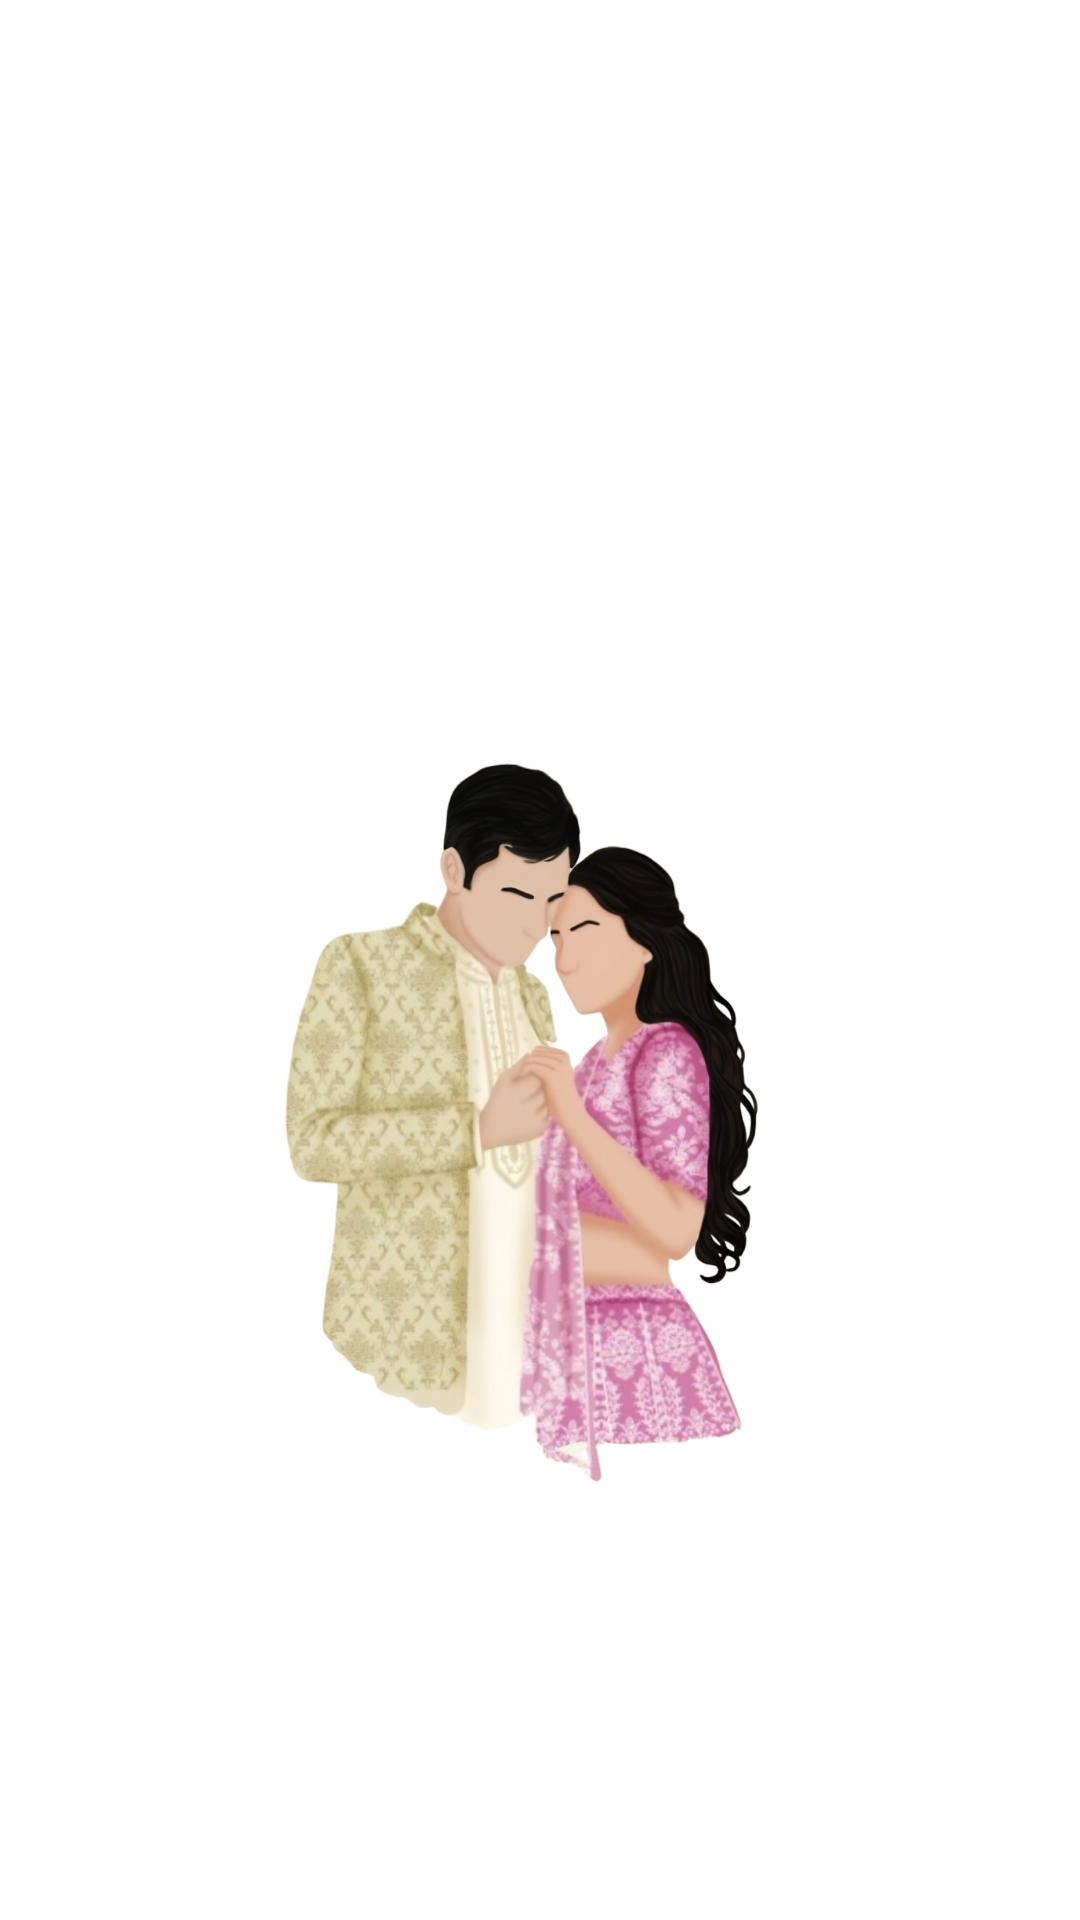
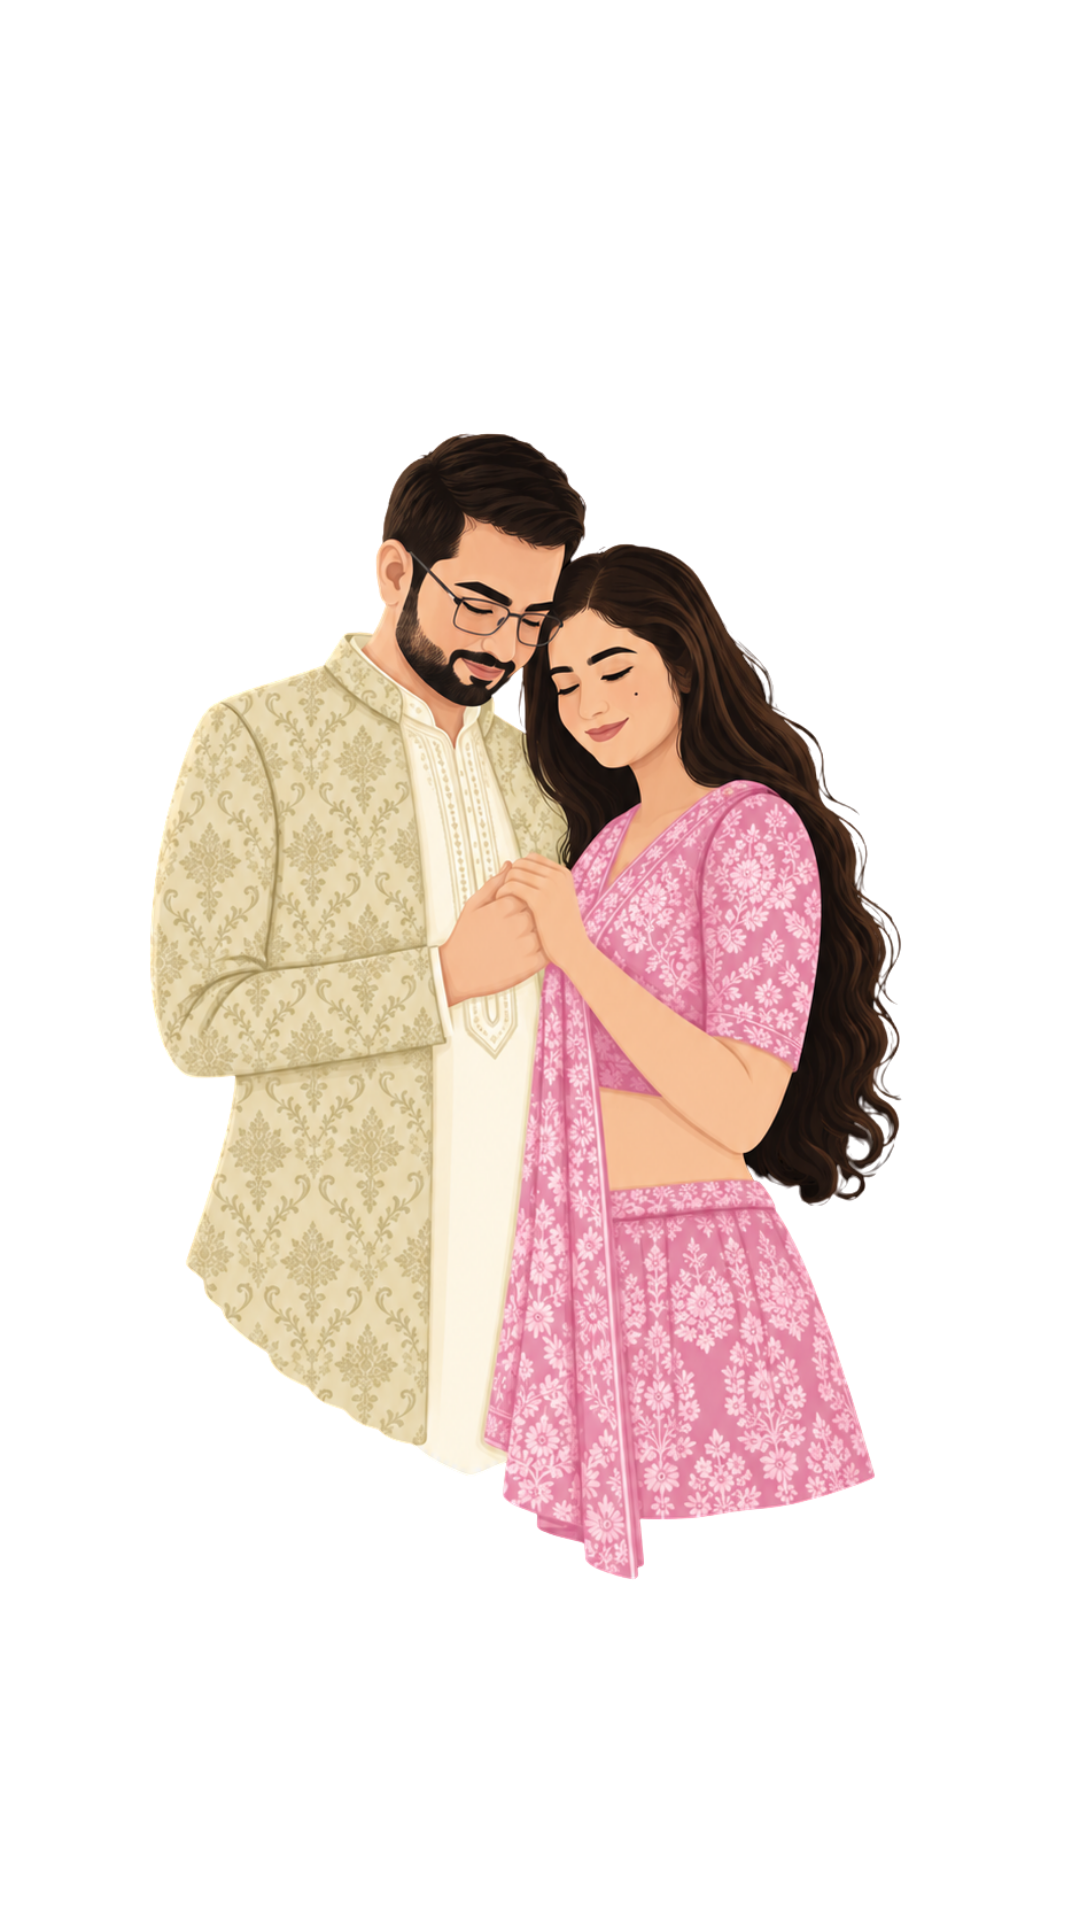
Add files via upload

Changed region(s): [[0.1222, 0.2188, 0.8556, 0.8438]]

diff --git a/index.html b/index.html
@@ -9,7 +9,7 @@
 *{box-sizing:border-box}
 html,body{margin:0;padding:0;background:#0b0710;color:#fff;font-family:Georgia,"Times New Roman",serif}
 body{overflow-x:hidden}
-#opening{position:fixed;inset:0;z-index:100;background:#0b0710;display:flex;align-items:center;justify-content:center;cursor:default;touch-action:manipulation;transition:opacity .65s ease,visibility .65s ease}
+#opening{position:fixed;inset:0;z-index:210;background:#0b0710;display:flex;align-items:center;justify-content:center;cursor:pointer;touch-action:manipulation;transition:opacity .65s ease,visibility .65s ease}
 #opening.hidden{opacity:0;visibility:hidden;pointer-events:none}
 #opening video{width:100%;height:100%;object-fit:cover;display:block;pointer-events:none}
 #opening .seal-logo{position:absolute;left:50%;top:49.3%;width:min(25vw,300px);height:auto;transform:translate(-50%,-50%) scale(.72);opacity:0;z-index:2;pointer-events:none;filter:drop-shadow(0 2px 3px rgba(72,45,12,.3));animation:sealLogoReveal 1.05s cubic-bezier(.2,.75,.25,1) .22s forwards}
@@ -23,12 +23,12 @@ section{position:relative;width:100%;height:100svh;min-height:620px;display:flex
 .video-wrap{position:relative;width:100%;height:100%;display:flex;justify-content:center;background:#0b0710}
 .invite-video{width:100%;height:100%;object-fit:cover;display:block;background:#0b0710}
 .sound{position:absolute;right:18px;bottom:20px;z-index:5;width:40px;height:40px;border-radius:50%;border:1px solid rgba(255,255,255,.55);background:rgba(0,0,0,.28);color:#fff;backdrop-filter:blur(5px);cursor:pointer;font-size:16px}
-#scratch-section{height:auto;min-height:100svh;padding:44px 18px 54px;display:flex;align-items:center;justify-content:flex-start;background:#f8f5e9;color:#3e3a35;scroll-snap-align:start}
-.scratch-wrap{width:min(100%,760px);text-align:center}
-.scratch-heading{margin:0 0 25px;color:#b49342;font-size:clamp(28px,5.8vw,52px);font-weight:400}
-.scratch-names{margin:0 0 30px;color:#b49342;font-size:clamp(50px,10vw,92px);line-height:.95;font-family:"Snell Roundhand","Segoe Script","Brush Script MT",cursive;font-weight:500}
+#scratch-section{height:auto;min-height:100svh;padding:34px 18px 44px;display:flex;align-items:center;justify-content:flex-start;background:#f8f5e9;color:#3e3a35;scroll-snap-align:start}
+.scratch-wrap{width:min(100%,760px);text-align:center;margin:0 auto}
+.scratch-heading{margin:0 0 18px;color:#b49342;font-size:clamp(28px,5.8vw,52px);font-weight:400}
+.scratch-names{margin:0 0 24px;color:#b49342;font-size:clamp(50px,10vw,92px);line-height:.95;font-family:"Snell Roundhand","Segoe Script","Brush Script MT",cursive;font-weight:500}
 .scratch-card{
-  position:relative;width:100%;height:178px;border-radius:27px;overflow:hidden;
+  position:relative;width:min(100%,700px);height:170px;margin:0 auto;border-radius:27px;overflow:hidden;
   background:
     radial-gradient(circle at 20% 25%,rgba(255,239,154,.34),transparent 22%),
     radial-gradient(circle at 78% 70%,rgba(255,246,190,.22),transparent 25%),
@@ -41,8 +41,10 @@ section{position:relative;width:100%;height:100svh;min-height:620px;display:flex
 .scratch-reveal{position:absolute;inset:0;z-index:0;display:flex;flex-direction:column;align-items:center;justify-content:center;background:linear-gradient(105deg,#fff2bf,#f7d97d,#fff0b6);color:#8c5e0a}
 .reveal-small{font:15px Georgia,serif;letter-spacing:5px;margin-bottom:10px}
 .reveal-date{font-size:clamp(30px,6vw,52px);font-weight:500}
-.scratch-date{margin:27px 0 18px;color:#4c4850;font-family:Georgia,"Times New Roman",serif;font-size:clamp(25px,5vw,44px)}
-.caricature{display:block;width:min(92vw,560px);height:auto;margin:0 auto 8px;mix-blend-mode:multiply;filter:saturate(.98);object-fit:contain}
+.scratch-date{margin:20px 0 16px;color:#4c4850;font-family:Georgia,"Times New Roman",serif;font-size:clamp(25px,5vw,44px)}
+.scratch-visuals{display:flex;flex-direction:column;align-items:center;justify-content:flex-start;gap:10px;margin:18px auto 20px;width:100%;}
+.invite-logo{display:block;width:min(30vw,150px);min-width:105px;height:auto;margin:0 auto;object-fit:contain;filter:drop-shadow(0 5px 10px rgba(90,62,25,.12));}
+.caricature{display:block;width:min(76vw,360px);height:auto;max-height:430px;margin:0 auto;mix-blend-mode:multiply;filter:saturate(.98);object-fit:contain}
 .countdown{display:grid;grid-template-columns:repeat(4,1fr);gap:12px;width:100%;max-width:710px;margin:0 auto}
 .time-box{min-height:145px;border:5px solid #e7b51a;border-radius:27px;background:#fff;display:flex;flex-direction:column;justify-content:center;align-items:center;box-shadow:0 8px 16px rgba(90,70,20,.1)}
 .time-number{color:#cf4382;font-size:clamp(42px,8vw,74px);line-height:1}
@@ -52,7 +54,7 @@ section{position:relative;width:100%;height:100svh;min-height:620px;display:flex
 .map-frame{width:100%;max-width:900px;height:58vh;min-height:360px;border:0;border-radius:18px;display:block;box-shadow:0 18px 50px rgba(0,0,0,.45)}
 .directions{display:inline-flex;align-items:center;justify-content:center;padding:13px 20px;border-radius:999px;text-decoration:none;color:#fff;border:1px solid rgba(255,255,255,.45);font:13px Arial,sans-serif;letter-spacing:.5px;max-width:330px;width:100%;margin:0 auto}
 @media(min-width:700px){.invite-video{width:min(100%,540px)}}
-@media(max-width:520px){.scratch-card{height:145px}.countdown{gap:7px}.time-box{min-height:112px;border-width:4px;border-radius:20px}.time-label{margin-top:8px}}
+@media(max-width:520px){#scratch-section{padding:28px 14px 38px}.scratch-card{height:142px}.scratch-visuals{gap:6px;margin:14px auto 18px}.invite-logo{width:110px;min-width:0}.caricature{width:min(82vw,300px);max-height:360px}.countdown{gap:7px}.time-box{min-height:112px;border-width:4px;border-radius:20px}.time-label{margin-top:8px}}
 </style>
 </head>
 <body>
@@ -62,12 +64,11 @@ section{position:relative;width:100%;height:100svh;min-height:620px;display:flex
   <source src="bol-na-halke-instrumental.mp4" type="audio/mp4">
 </audio>
 
-<!-- Opening slide automatically advances to the final front slide -->
-<div id="opening" aria-label="Open wedding invitation" role="button" tabindex="0">
-  <video id="openingVideo" playsinline preload="auto" autoplay muted poster="opening-poster.jpg">
+<!-- Opening video. The instruction is part of the video itself. When it finishes, the invitation is revealed. -->
+<div id="opening" aria-label="Opening wedding invitation" role="button" tabindex="0">
+  <video id="openingVideo" playsinline preload="auto" poster="opening-poster.jpg">
     <source src="opening-envelope.mp4" type="video/mp4">
   </video>
-  
 </div>
 
 <button id="musicButton" aria-label="Toggle wedding music">🔊</button>
@@ -98,7 +99,10 @@ section{position:relative;width:100%;height:100svh;min-height:620px;display:flex
         <div class="scratch-message">Scratch to reveal</div>
         <canvas id="scratchCanvas"></canvas>
       </div>
-<img class="caricature" src="caricature.png" alt="Jay and Simran illustration">
+<div class="scratch-visuals" aria-label="Jay and Simran monogram and illustration">
+        <img class="invite-logo" src="js-logo.png" alt="J and S monogram">
+        <img class="caricature" src="caricature.png" alt="Jay and Simran illustration">
+      </div>
 
       <div class="countdown">
         <div class="time-box"><div class="time-number" id="days">00</div><div class="time-label">Days</div></div>
@@ -160,7 +164,7 @@ const openingVideo=document.getElementById('openingVideo');
 const frontVideo=document.getElementById('frontVideo');
 const music=document.getElementById('weddingMusic');
 const musicButton=document.getElementById('musicButton');
-let opened=false;
+let opened=false, openingStarted=false;
 
 function showFront(){
   if(opened)return;
@@ -169,26 +173,34 @@ function showFront(){
   musicButton.classList.add('show');
   document.getElementById('front').scrollIntoView({behavior:'auto',block:'start'});
   frontVideo.play().catch(()=>{});
-  // Try the requested instrumental; browsers may require a later user gesture for audio.
   music.volume=.75;
   music.play().catch(()=>{});
 }
 
 function startOpening(){
-  openingVideo.muted=true;
-  openingVideo.setAttribute('playsinline','');
-  openingVideo.setAttribute('autoplay','');
+  if(openingStarted || opened)return;
+  openingStarted=true;
+  openingVideo.muted=false;
+  openingVideo.volume=.95;
   openingVideo.currentTime=0;
   const p=openingVideo.play();
-  if(p && p.catch) p.catch(()=>{});
-  openingVideo.addEventListener('ended',showFront,{once:true});
-  openingVideo.addEventListener('error',()=>setTimeout(showFront,250),{once:true});
-  frontVideo.addEventListener('error',()=>{document.getElementById('front').style.backgroundImage='url(\"front-poster.jpg\")';},{once:true});
-  // Safety fallback so the invitation never gets stuck on the opening slide.
-  setTimeout(()=>{ if(!opened) showFront(); },7000);
+  if(p && p.catch){
+    p.catch(()=>{
+      openingVideo.muted=true;
+      openingVideo.play().catch(()=>{});
+    });
+  }
 }
 
-window.addEventListener('load',startOpening);
+opening.addEventListener('click',startOpening);
+opening.addEventListener('touchend',startOpening,{passive:true});
+opening.addEventListener('keydown',e=>{
+  if(e.key==='Enter' || e.key===' '){e.preventDefault();startOpening();}
+});
+openingVideo.addEventListener('ended',showFront,{once:true});
+openingVideo.addEventListener('error',()=>setTimeout(showFront,250),{once:true});
+
+frontVideo.addEventListener('error',()=>{document.getElementById('front').style.backgroundImage='url(\"front-poster.jpg\")';},{once:true});
 
 musicButton.addEventListener('click',e=>{
   e.stopPropagation();
